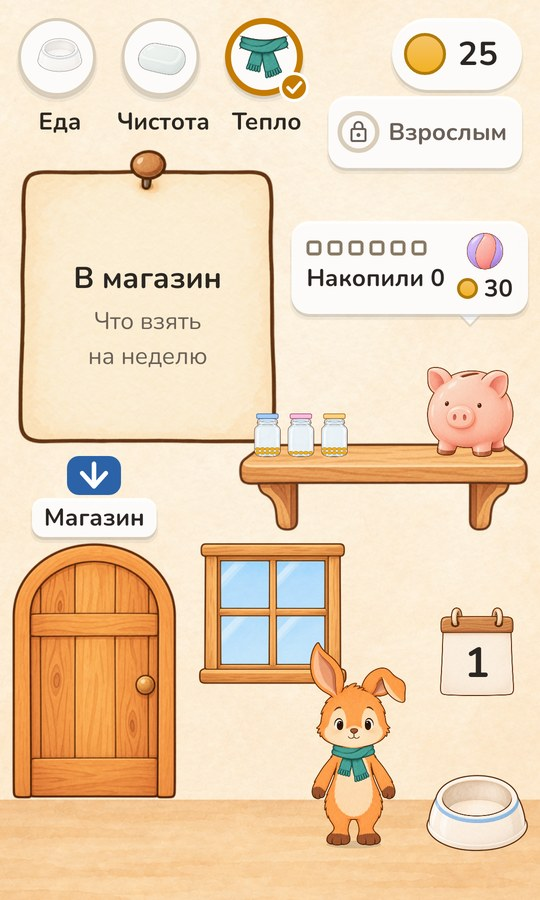
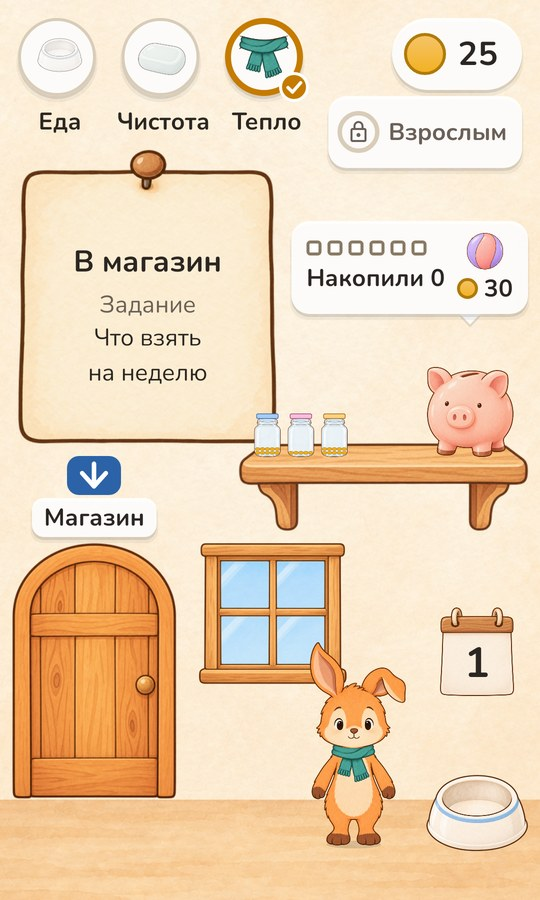
Статус и отчёт о прогоне 29.09, снимок дома с меткой «Задание»
Claude-Session: https://claude.ai/code/session_01De8Ct5ezrLmm2zWBZFS8ks

Changed region(s): [[0.1185, 0.28, 0.4148, 0.4356]]

diff --git a/docs/testing.md b/docs/testing.md
@@ -148,3 +148,9 @@
   «Нужного» с переливом из «Хочу» говорил «Как и задумали»; итог и F4 на 360 × 600 прокручивались на 2–9 dp.
 - Снимки всех экранов (`./gradlew :app:recordRoborazziDebug`) просмотрены; `docs/screens/` обновлены.
 
+## Прогон 29 сентября 2026
+
+После правок раздела взрослого (бонус убран, задания без кодов) и метки «Задание» на записке:
+`./gradlew :core:test :app:testDebugUnitTest` — **318 тестов, 0 падений** (core 104, app 214);
+`bash scripts/journey.sh` — на 411 × 659, 360 × 600 и 411 × 860 находок нет, на ×1,3 — прокрутка итога, как 28.09.
+
